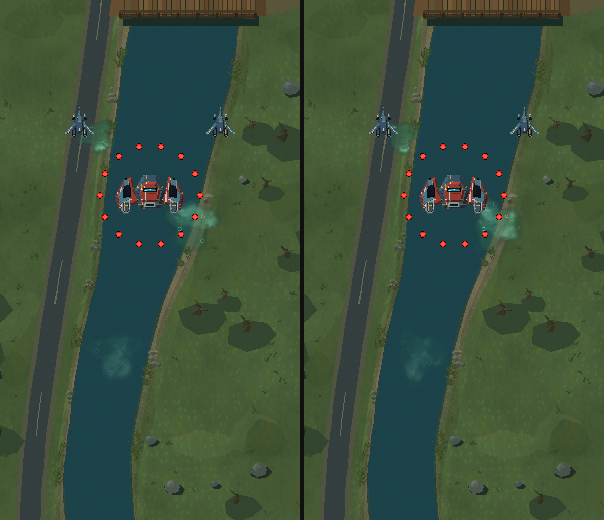
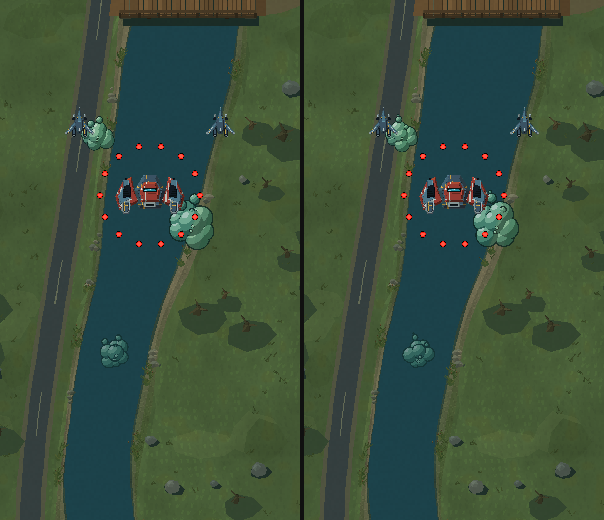
Redraw Compost's poison cloud as billowing cel-shaded puffs
The soft noise smudge is replaced by a cluster of gas puffs, each a
cel-shaded ball in three muted-jade bands with a glint and a dark teal
outline where it overlaps the next. A ring of puffs turns and swells around
a central one, wisps bubble off the top and bubbles rise and pop; the body
is slightly see-through so it reads as gas rather than foliage.

diff --git a/AGENTS.md b/AGENTS.md
@@ -416,7 +416,7 @@ Miguel reviewed one-minute side-by-sides (ArtSource/BossPhaseProposals) and chos
 - Drift School's underwater handling lasts the whole tape, through miniboss and boss; its rule reads UNDERWATER HANDLING and every tape's rule is named in the in-flight SIMULATOR panel.
 - Disc Thrower discs brake to a stop 5 units ahead (half a second out; was 3.2), hold 1.5 s spinning and cut every hull they touch every 0.12 s (a quarter of their damage), then fade; they no longer fly back.
 - Hector rides centred just above the ship with a short lag, in the path of incoming fire; more Hectors fan out beside him.
-- Compost's fumes are one animated gas cloud (`ToxicCloud` shader: rolling muted jade, lobed breathing edge, popping bubbles, darker teal rim) covering the poisoning radius, not square particles.
+- Compost's fumes are one animated gas cloud covering the poisoning radius, not square particles. Miguel rejected the soft noise smudge too (15 November 2026): `ToxicCloud` now draws a cluster of billowing cel-shaded puffs (three muted-jade bands and a glint, dark teal outlines where puffs overlap), a ring of puffs turning and swelling around a central one, wisps bubbling off the top and bubbles that rise and pop, slightly see-through so it reads as gas rather than foliage.
 - City's slender wave hulls read thicker: Courier Diver, Metro Lancer, Pursuit Fighter and Attack Drone models are widened and deepened (never lengthened) through `DistrictEnemy.Girth`; contacts and health classification are unchanged and formation footprints include the extra width.
 - City is now a destroyed city (`CityRuinsGeometry`, supersedes the seeded neighbourhoods and the street grid): ash and broken concrete with scorch marks, rubble fields, craters and one winding cracked road; ruins at their own angles (gutted blocks with jagged walls, surviving floor slabs and window holes, tower skeletons, collapsed mounds, a toppled tower, broken overpass spans), burnt-out cars, tank traps, small fires and smoke haze. No traffic runs through it; RUSH HOUR remains the denser waves.
 - Underwater mines (supersedes the MINEFIELD proximity fuse and one-hit fuse): fewer mines per formation and at most one rising mine every 7.5-10.5 s; each mine takes real damage (16 base health) and never arms because the pilot is near. Mines are moored: they ignore their formation route and sink with the seabed at the background's own speed (`LevelEnvironment.ScrollSpeed`). The model follows Miguel's reference: a faceted steel sphere with a riveted equatorial seam, contact horns on bolted flanges with a crown horn toward the camera, and the mooring chain trailing down into the depths.
